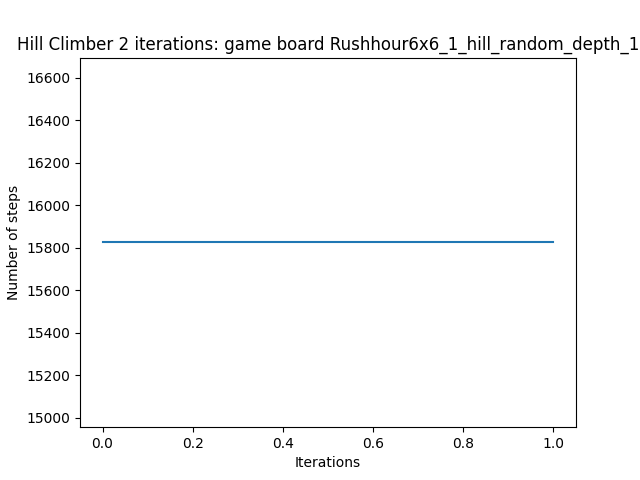
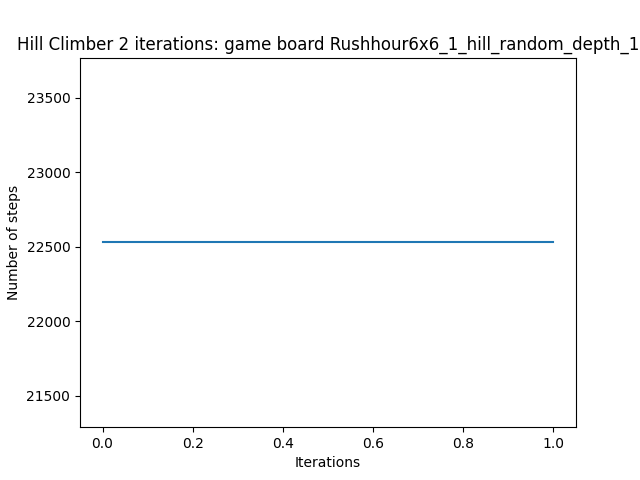
probeer stop op random

diff --git a/code/algorithms/random_algorithm.py b/code/algorithms/random_algorithm.py
@@ -27,6 +27,7 @@ class RandomAlg(BaseAlg):
     def __init__(
         self,
         board: Board,
+        depth: int = None,
         start_node: Union[Node, None] = None,
         end_node: Union[Node, None] = None,
     ):
@@ -39,7 +40,7 @@ class RandomAlg(BaseAlg):
 
         current_state: Node = self.start_node
 
-        while not self._check_finished(current_state, set_board_every_check=True):
+        while not self._check_finished(current_state, set_board_every_check=True) and self._check_depth(current_state):
             # get the possible moves of current state and pick random
             moves = self.board.possible_moves
             move = random.choice(moves)

diff --git a/code/algorithms/base_algorithms/base_hill_climber.py b/code/algorithms/base_algorithms/base_hill_climber.py
@@ -62,7 +62,7 @@ class BHC:
 
         if mode == "random":
             algorithm: Union[RandomAlg, Bfs, Dfs, Bdfs] = RandomAlg(
-                self.board, start_node, end_node
+                self.board, depth, start_node, end_node
             )
         elif mode == "breadth":
             algorithm = Bfs(self.board, depth, start_node, end_node)
@@ -141,6 +141,7 @@ class BHC:
             print('T')
             return True
         print('F')
+        
         return False
 
     def _step_algorithm(self, iteration) -> bool:

diff --git a/code/algorithms/base_algorithms/base_algorithm.py b/code/algorithms/base_algorithms/base_algorithm.py
@@ -48,10 +48,12 @@ class BaseAlg:
             self.end_node: Node = end_node
 
     def _check_depth(self, current_state) -> bool:
-        print('checking')
-        print(current_state.depth)
-        print(current_state)
+        """
+        Checks whether a given state has an acceptable depth.
+        """
         if current_state.depth == self.depth:
+            print(current_state.depth)
+            print('STOPPEEEEENNNNNNNNNN')
             return False
 
         return True
